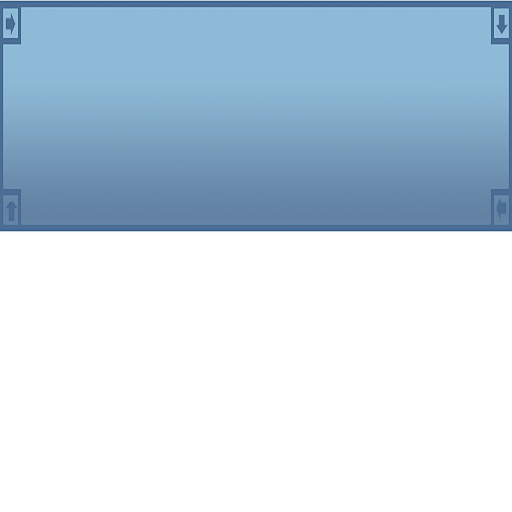
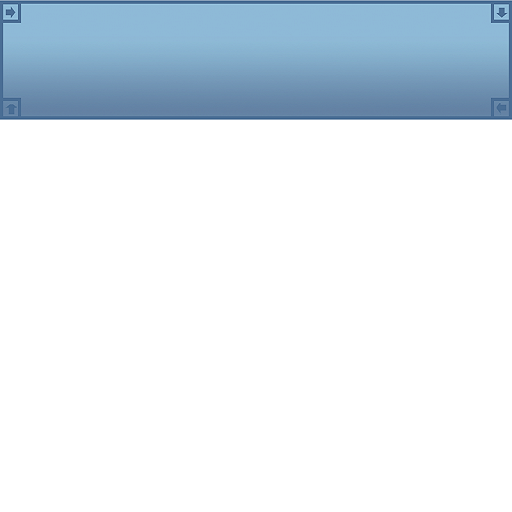
テキスト変更Part2

diff --git a/EscapeGame/EscapeGame/ObjBlock.cpp b/EscapeGame/EscapeGame/ObjBlock.cpp
@@ -331,7 +331,7 @@ void CObjBlock::Draw()
 	src.m_top = 0.0f;
 	src.m_left = 0.0f;
 	src.m_right = 512.0f;
-	src.m_bottom = 234.0f;
+	src.m_bottom = 120.0f;
 	dst.m_top = 480.0f;
 	dst.m_left =0.0f;
 	dst.m_right =640.0f;
@@ -353,7 +353,7 @@ void CObjBlock::Draw()
 	src.m_top = 0.0f;
 	src.m_left = 0.0f;
 	src.m_right = 512.0f;
-	src.m_bottom = 234.0f;
+	src.m_bottom = 120.0f;
 	dst.m_top = 480.0f;
 	dst.m_left = 640.0f;
 	dst.m_right = 800.0f;
